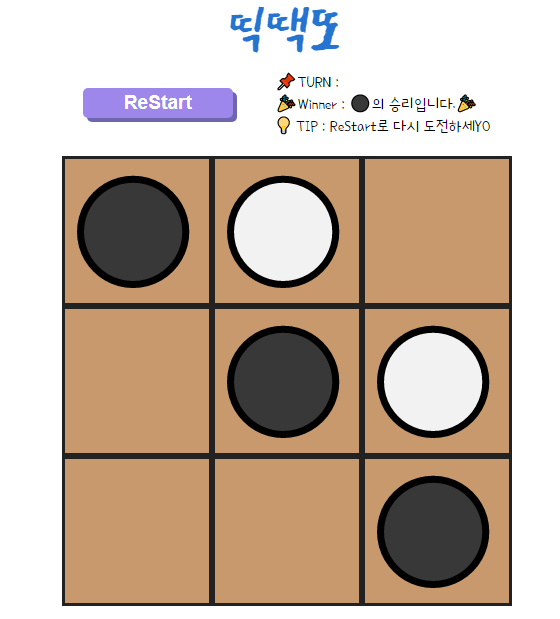
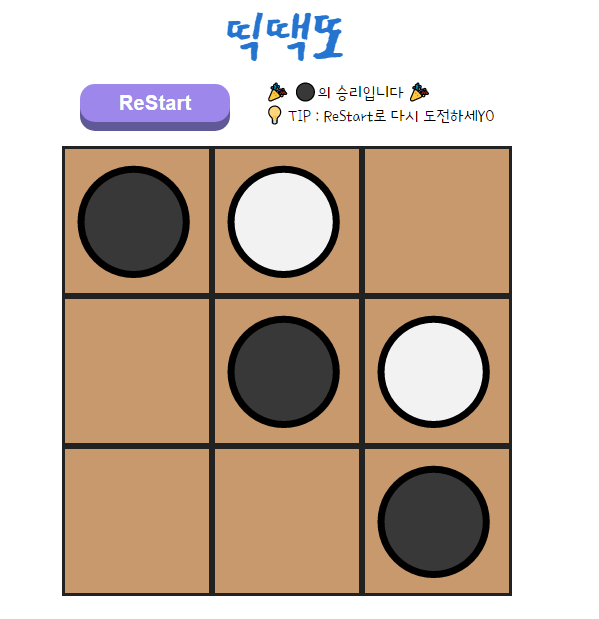
finito homework

Changed region(s): [[0.0911, 0.0, 0.9411, 0.9822]]

diff --git a/app/index.js b/app/index.js
@@ -70,6 +70,8 @@ const winnerTeller = document.querySelector(".winnerTeller");
 const tipTeller = document.querySelector(".tipTeller");
 const gameStatus = document.querySelector(".gameStatus");
 const gameStatus__winner = document.querySelector(".gameStatus__winner");
+const gameStatus__turn = document.querySelector(".gameStatus__turn");
+const gameStatus__tip = document.querySelector(".gameStatus__tip");
 
 const marks = {
   O :"⚫",
@@ -86,11 +88,15 @@ let squares = [
 
 function getTextsForTurnAndWin( turn, what = "차례" ){ //함수명.. 어케하면 좋을까요?
   turn = marks[turn] || null;
-  return turn ? `${turn}의 ${what}입니다.` : "무승부 입니다.";
+  return turn ? `${turn}의 ${what}입니다` : "무승부 입니다";
 }
 
 function paintContent(teller, what){
   teller.textContent = what;
+}
+
+function displayChanger(element, toWhat){
+  element.style.display = toWhat;
 }
 
 function resetBoard(){
@@ -104,11 +110,12 @@ function resetBoard(){
 
   boxsArray.map(e => paintContent(e, null));
   paintContent(winnerTeller, null);
-  paintContent(tipTeller, "경기시작");
+  paintContent(tipTeller, "시작! 선빵필승");
   paintContent(turnTeller, getTextsForTurnAndWin("O"));
 
-  gameStatus.style.display = "block";
-  gameStatus__winner.style.display = "none";
+  displayChanger(gameStatus, "block");
+  displayChanger(gameStatus__turn, "block");
+  displayChanger(gameStatus__winner, "none");
 }
 
 function gameOver(){
@@ -128,7 +135,8 @@ function paintBox(targetBox, turn){
 function paintDraw(){
   paintContent(winnerTeller, getTextsForTurnAndWin("무승부"));
   paintContent(turnTeller, null);
-  gameStatus__winner.style.display = "block";
+  displayChanger(gameStatus__winner, "block");
+  displayChanger(gameStatus__turn, "none");
   return true;
 }
 
@@ -136,8 +144,9 @@ function getResult(){
   const result = calculateWinner(squares);
 
   if(result){
-    gameStatus__winner.style.display = "block";
-    paintContent(winnerTeller,  getTextsForTurnAndWin(result,"승리"));
+    displayChanger(gameStatus__turn, "none");
+    displayChanger(gameStatus__winner, "block");
+    paintContent(winnerTeller, getTextsForTurnAndWin(result, "승리"));
     paintContent(turnTeller, null);
     gameOver();
     return;
@@ -164,7 +173,8 @@ function handleClick(e){
     return;
   }
 
-  const targetBox = document.getElementById(`${targetId}`); // document.querySelector(`#${targetId}`) 는 안됨. 알아보기.
+  // document.querySelector(`#${targetId}`)는 오류 => '#숫자'는 선택자로 쓸수 없다고 한다.
+  const targetBox = document.getElementById(`${targetId}`);
   const whosTurn = (arrayOfO.length === arrayOfX.length) ? "O" : "X";
   paintBox(targetBox, whosTurn);
   getResult();

diff --git a/styles/index.css b/styles/index.css
@@ -8,6 +8,7 @@ body{
   flex-direction: column;
   justify-content: center;
   align-items: center;
+  margin: 0;
 }
 *, *:before, *:after {
   box-sizing: inherit;
@@ -51,14 +52,25 @@ header{
 .startBtn{
   border: none;
   width: 150px;
-  height: 30px;
+  height: 38px;
   font-size: larger;
   color: white;
   font-weight: bolder;
-  border-radius: 5px;
+  border-radius: 15px;
   background-color: rgb(157, 135, 235);
-  box-shadow: 4px 4px 0px 0px rgb(109, 102, 175);
+  box-shadow: 0px 9px rgb(95, 89, 151);
+  outline: none;
   cursor: pointer;
+}
+
+.startBtn:hover{
+  background-color: rgb(141, 125, 199);
+}
+
+.startBtn:active{
+  background-color: rgb(141, 125, 199);
+  box-shadow: 0px 5px rgb(73, 68, 116);
+  transform: translateY(4px);
 }
 
 .gameStatus{
@@ -67,4 +79,5 @@ header{
 
 .gameStatus .gameStatus__winner{
   display: none;
+  width: fit-content;
 }

diff --git a/index.html b/index.html
@@ -13,9 +13,9 @@
   <header>
     <button class="startBtn"> GAME START </button>
     <div class="gameStatus">
-      <div>📌TURN : <span class="turnTeller"></span></div>
-      <div class="gameStatus__winner">🎉Winner : <span class="winnerTeller"></span>🎉</div>
-      <div>💡 TIP : <span class="tipTeller"></span></div>
+      <div class="gameStatus__turn">📌TURN : <span class="turnTeller"></span></div>
+      <div class="gameStatus__winner">🎉 <span class="winnerTeller"></span> 🎉</div>
+      <div class="gameStatus__tip">💡 TIP : <span class="tipTeller"></span></div>
     </div>
   </header>
   <section>
